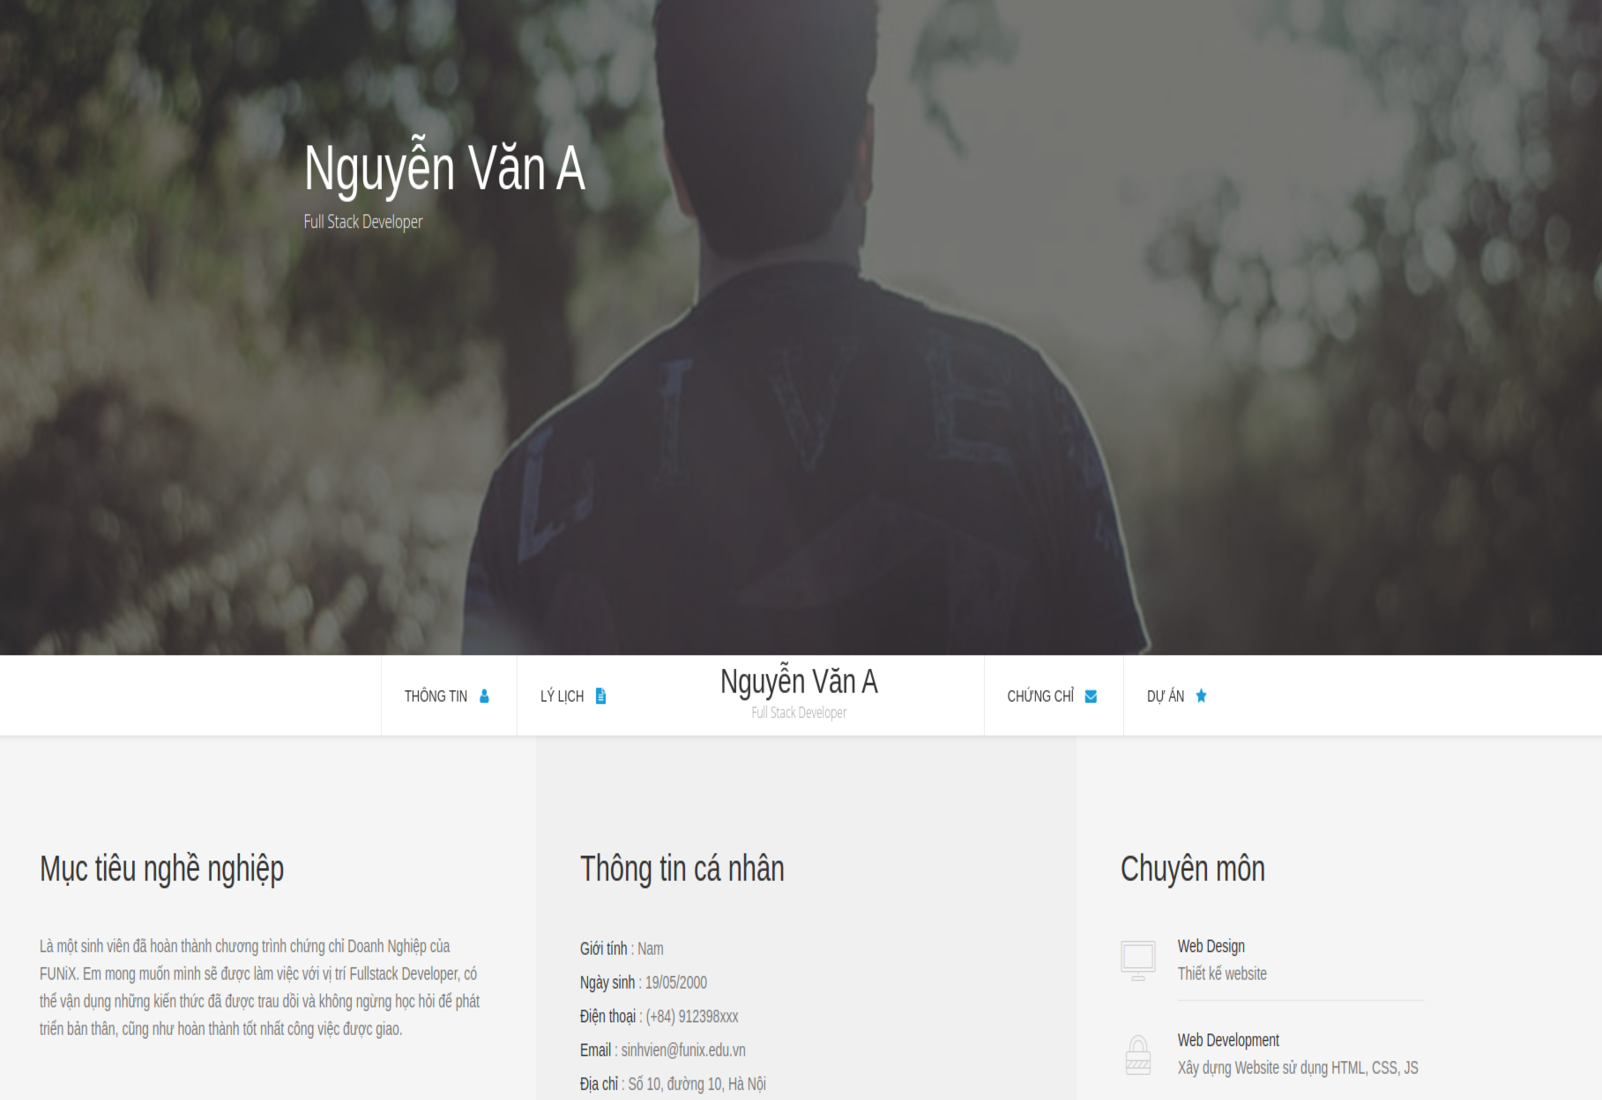
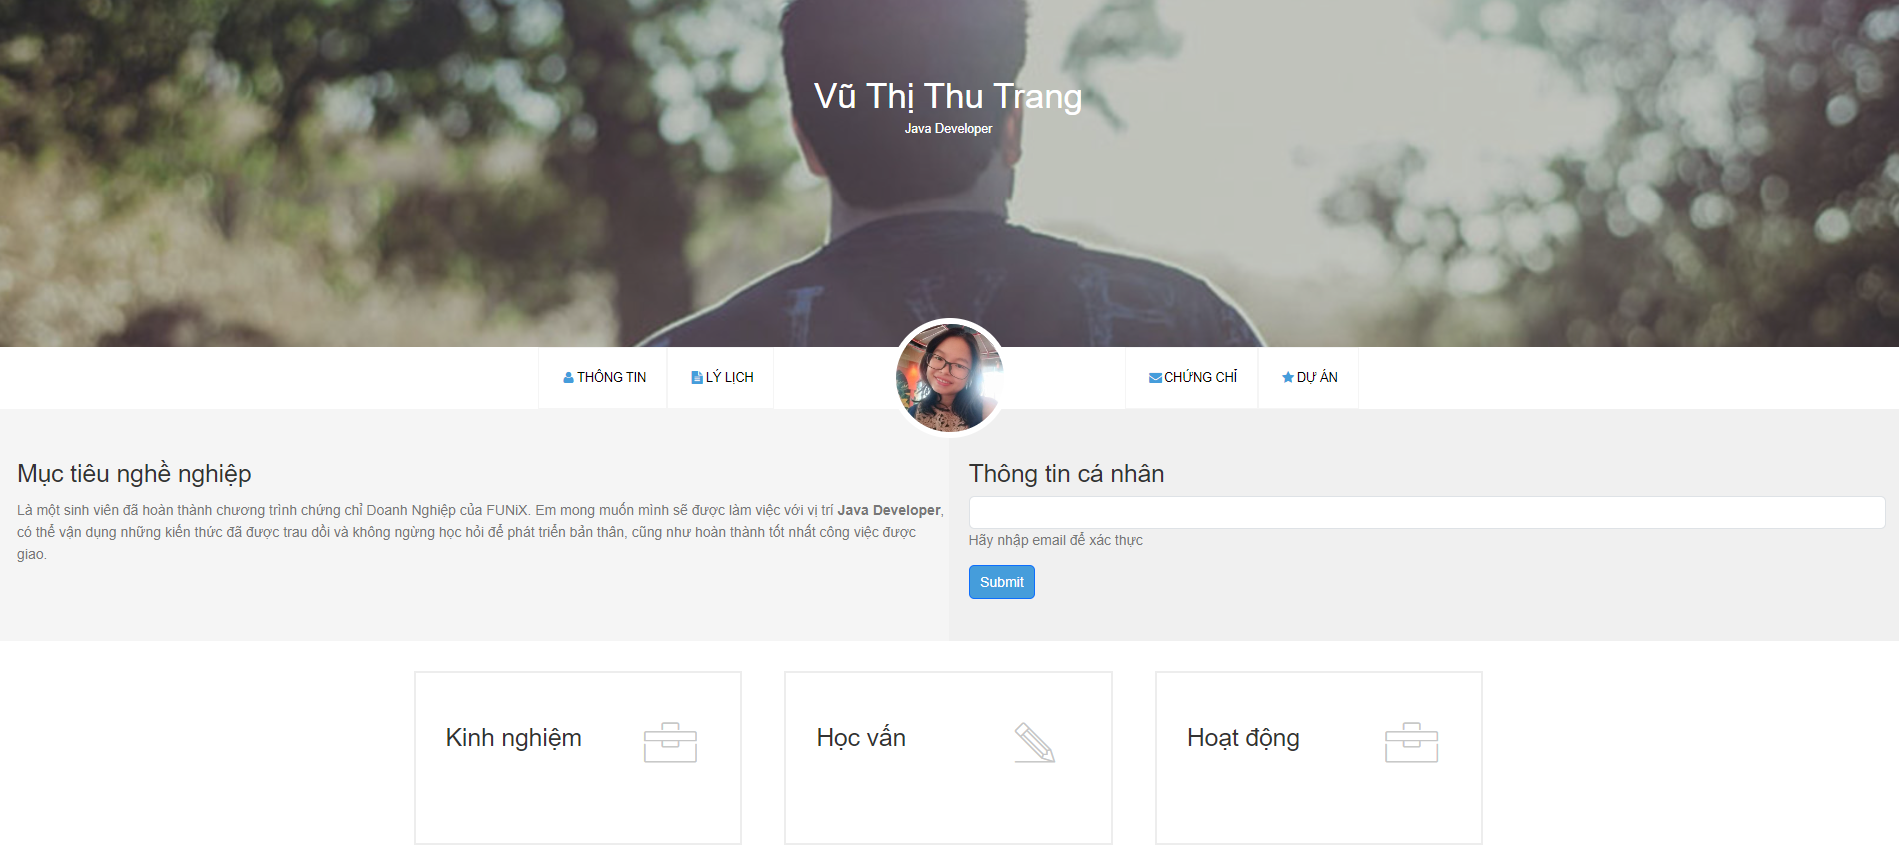
Update

diff --git a/index.html b/index.html
@@ -28,7 +28,7 @@
       <img class="avatar" src="images/banner.jpg" alt="avatar" />
       <div class="centered">
         <h1>Vũ Thị Thu Trang</h1>
-        <span>Full Stack Developer</span>
+        <span>Java Developer</span>
       </div>
     </div>
 
@@ -46,7 +46,7 @@
           <!-- <h3>Vũ Thị Thu Trang</h3>
           <div>Fullstack Developer</div> -->
           <img
-            src="images/default-avatar.webp"
+            src="images/profile-pic.jpg"
             alt="avatar"
             class="img-profile centered d-none d-md-block"
           />
@@ -67,14 +67,14 @@
           <p>
             Là một sinh viên đã hoàn thành chương trình chứng chỉ Doanh Nghiệp
             của FUNiX. Em mong muốn mình sẽ được làm việc với vị trí
-            <b>Fullstack Developer</b>, có thể vận dụng những kiến thức đã được
+            <b>Java Developer</b>, có thể vận dụng những kiến thức đã được
             trau dồi và không ngừng học hỏi để phát triển bản thân, cũng như
             hoàn thành tốt nhất công việc được giao.
           </p>
         </div>
         <div id="personal-info">
           <h3 class="section-title">Thông tin cá nhân</h3>
-          <div id="hidden-info" class="d-none">
+          <div id="hidden-info">
             <ul>
               <li><span class="label">Giới tính</span> : nữ</li>
               <li><span class="label">Ngày sinh</span> : 27/10/1991</li>
@@ -97,7 +97,7 @@
             </div>
           </div>
 
-          <div id="email-validate" class="pe-3 pb-5">
+          <div id="email-validate" class="pe-3 pb-5 d-none">
             <form id="my-form">
               <input
                 type="email"
@@ -197,9 +197,9 @@
                       <h4>FUNIX</h4>
                       <div class="timeline">04/2023-04/2024</div>
                       <div>
-                        - Tốt nghiệp chứng chỉ doanh nghiệp nhánh Fullstack.
+                        - Chứng chỉ doanh nghiệp Java
                       </div>
-                      <div>- GPA:9 / 10</div>
+                      <!-- <div>- GPA:9 / 10</div> -->
                     </div>
                   </li>
                   <li>
@@ -343,12 +343,12 @@
                   <span class="level-bar-grey"></span>
                 </div>
 
-                <div>NodeJS: Fundamental</div>
+                <!-- <div>NodeJS: Fundamental</div>
                 <div>
                   <span class="level-bar-blue"></span>
                   <span class="level-bar-grey"></span>
                   <span class="level-bar-grey"></span>
-                </div>
+                </div> -->
 
                 <div>Bootstrap 5: Fundamental</div>
                 <div>
@@ -371,7 +371,7 @@
             <div class="row borderright h-100">
               <div class="col-12 col-md-6">
                 <img
-                  src="images/Cert_WEB.png"
+                  src="images/cert-web.jpg"
                   alt="CC Web"
                   class="img-certificate img-fluid"
                 />
@@ -386,7 +386,7 @@
             </div>
           </div>
 
-          <div class="col-sm-6 col-12 borderbottom py-4">
+          <!-- <div class="col-sm-6 col-12 borderbottom py-4">
             <div class="row">
               <div class="col-12 col-md-6">
                 <img
@@ -422,7 +422,7 @@
                 </ul>
               </div>
             </div>
-          </div>
+          </div> -->
         </div>
       </div>
     </section>
@@ -475,7 +475,7 @@
             </div>
           </div>
 
-          <div class="col-12 col-sm-4 d-flex flex-column mb-5">
+          <!-- <div class="col-12 col-sm-4 d-flex flex-column mb-5">
             <a href="./project-chapter.html?project-id=project2"
               ><img
                 src="images/project_2.png"
@@ -562,7 +562,7 @@
               <div class="col-3 col-sm-4 px-0">Công nghệ</div>
               <div class="col-9 col-sm-8 ps-0">- HTML, CSS</div>
             </div>
-          </div>
+          </div> -->
         </div>
       </div>
     </section>
